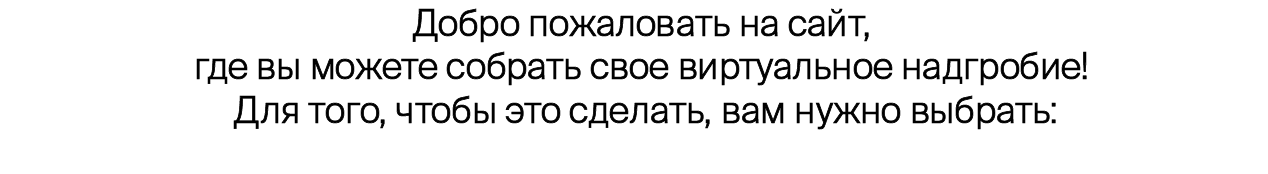
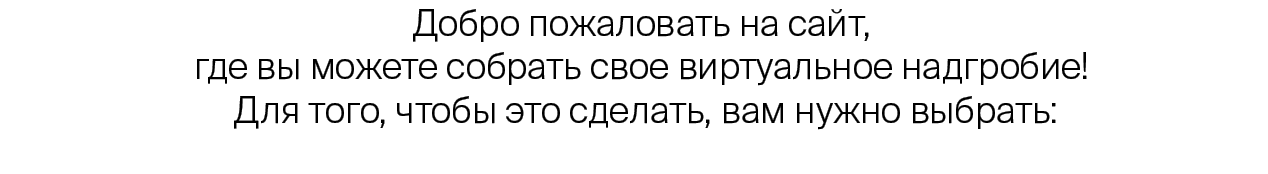
k

Changed region(s): [[0.1538, 0.2874, 0.8612, 0.4885], [0.1845, 0.546, 0.8304, 0.7184], [0.3076, 0.0575, 0.6767, 0.2299]]

diff --git a/index.html b/index.html
@@ -11,6 +11,7 @@
         background-image: url('bg1.png');
         background-repeat: no-repeat;
         background-size: cover;
+        font-family: Helvetica;  
       }
       </style>
 </head>
@@ -36,9 +37,11 @@
     <div class="row place-of-death-row">
     </div>
  
-    <div class="box-1">
+  <div class="box-1">
   </div>
 
+  <div class="box-1">
+  </div>
 
     <img src="3.png" width="10%" height="10%" class="center">
 
@@ -65,9 +68,10 @@
 <div class="box">
 </div>
 
+<button class="button">
+  <img src="look.png" alt="Посмотреть надгробия" width="100%">
+</button>
 
-<img src="look.png" alt="" width="10%" height="10%" class="center">
-<button onclick="Посмотреть()">Generate</button>
 <div id="divImage"></div>
 
 

diff --git a/random.js b/random.js
@@ -1,9 +1,9 @@
 
-function generator() {
+function button() {
   for (let index = 0; index < 10; index++) {
-    var x = Math.floor(Math.random() * 6 + 1);
+    var x = Math.floor((Math.random()*6)+1);
     console.log(x);
-    document.getElementById("divImage").innerHTML += `
+    document.getElementById("divImage").innerHTML+= `
        <img src="images/g${x}.png" style="width:100px;" >
    `;
   }

diff --git a/style.css b/style.css
@@ -20,7 +20,15 @@
 }
 
 
-
+.button {
+    display: block;
+    margin-left: auto;
+    margin-right: auto;
+    border: none;
+    cursor: pointer;
+    width: 40%;
+    padding: 0;
+}
 
 .center {
     display: block;
